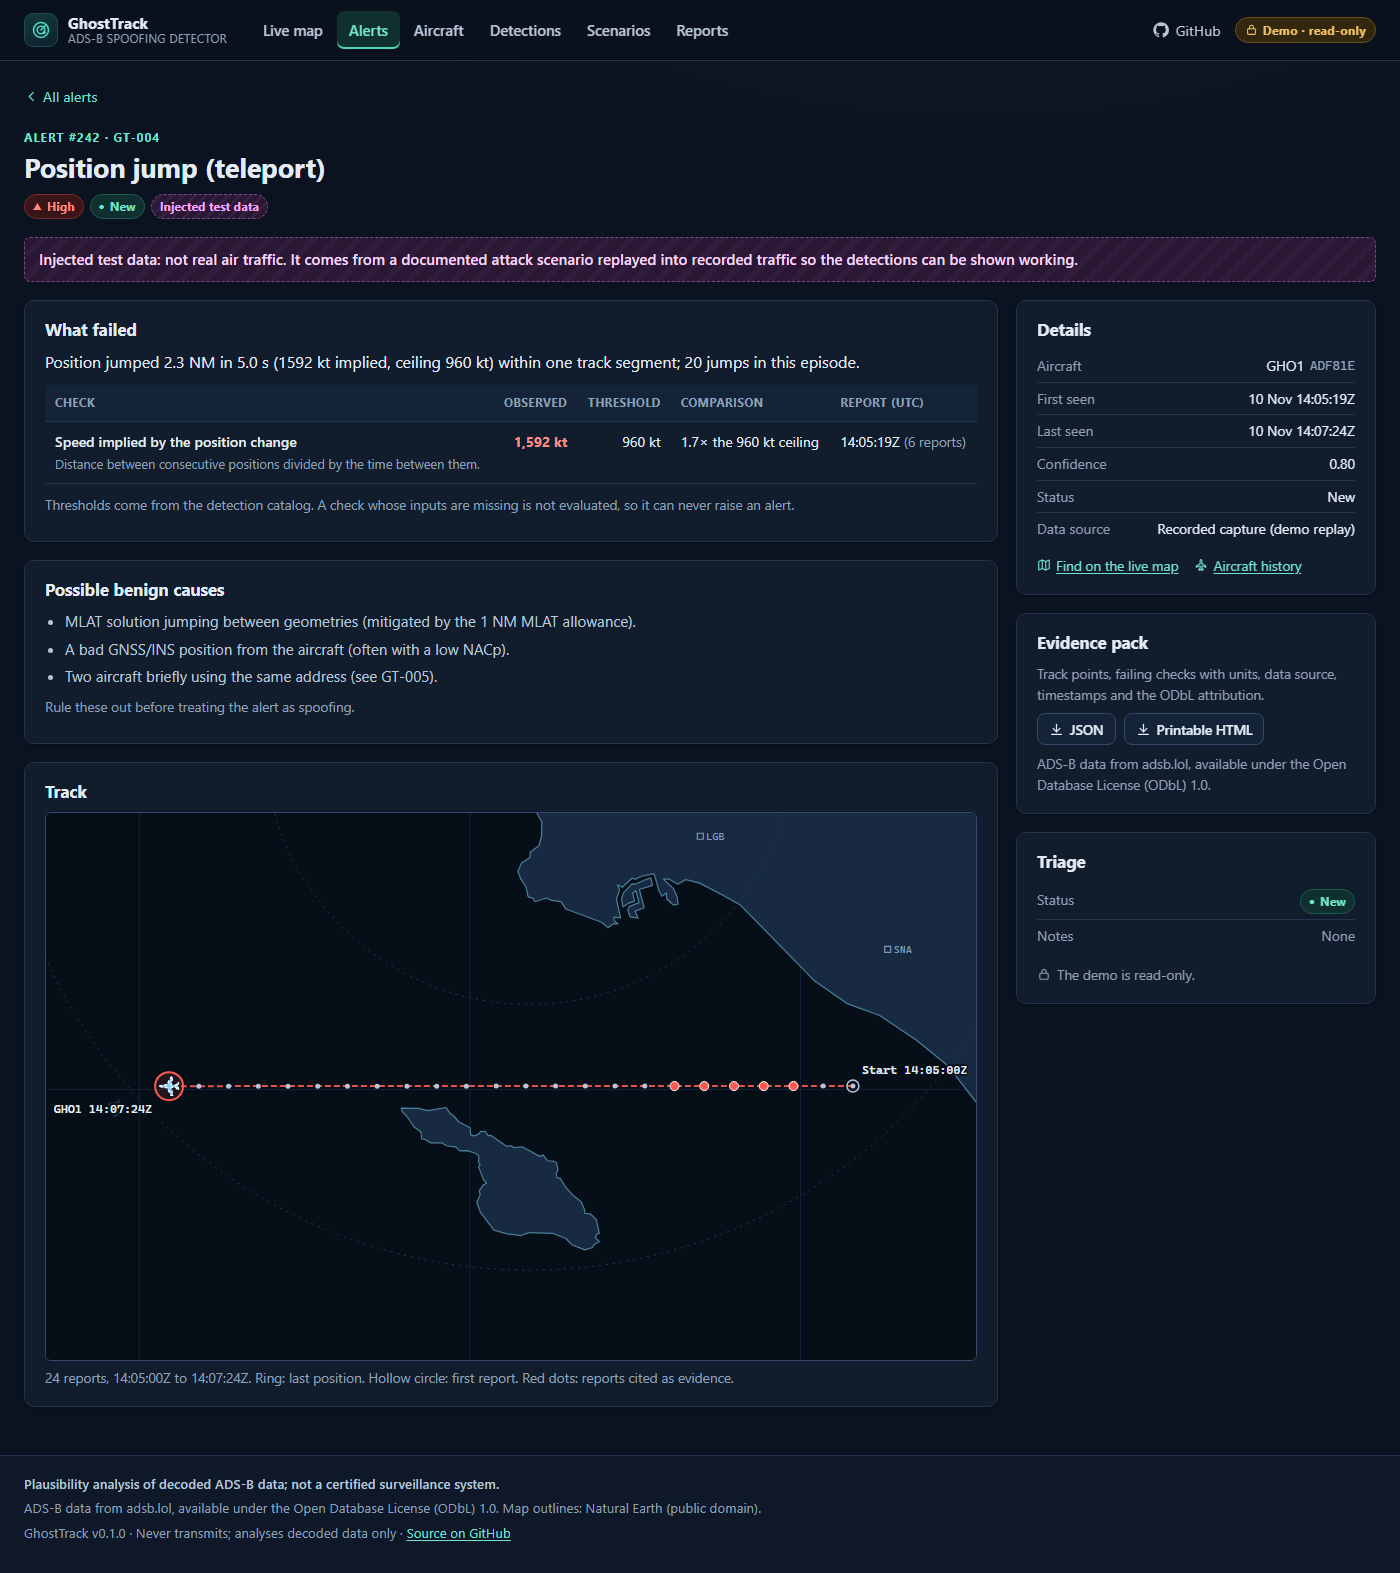
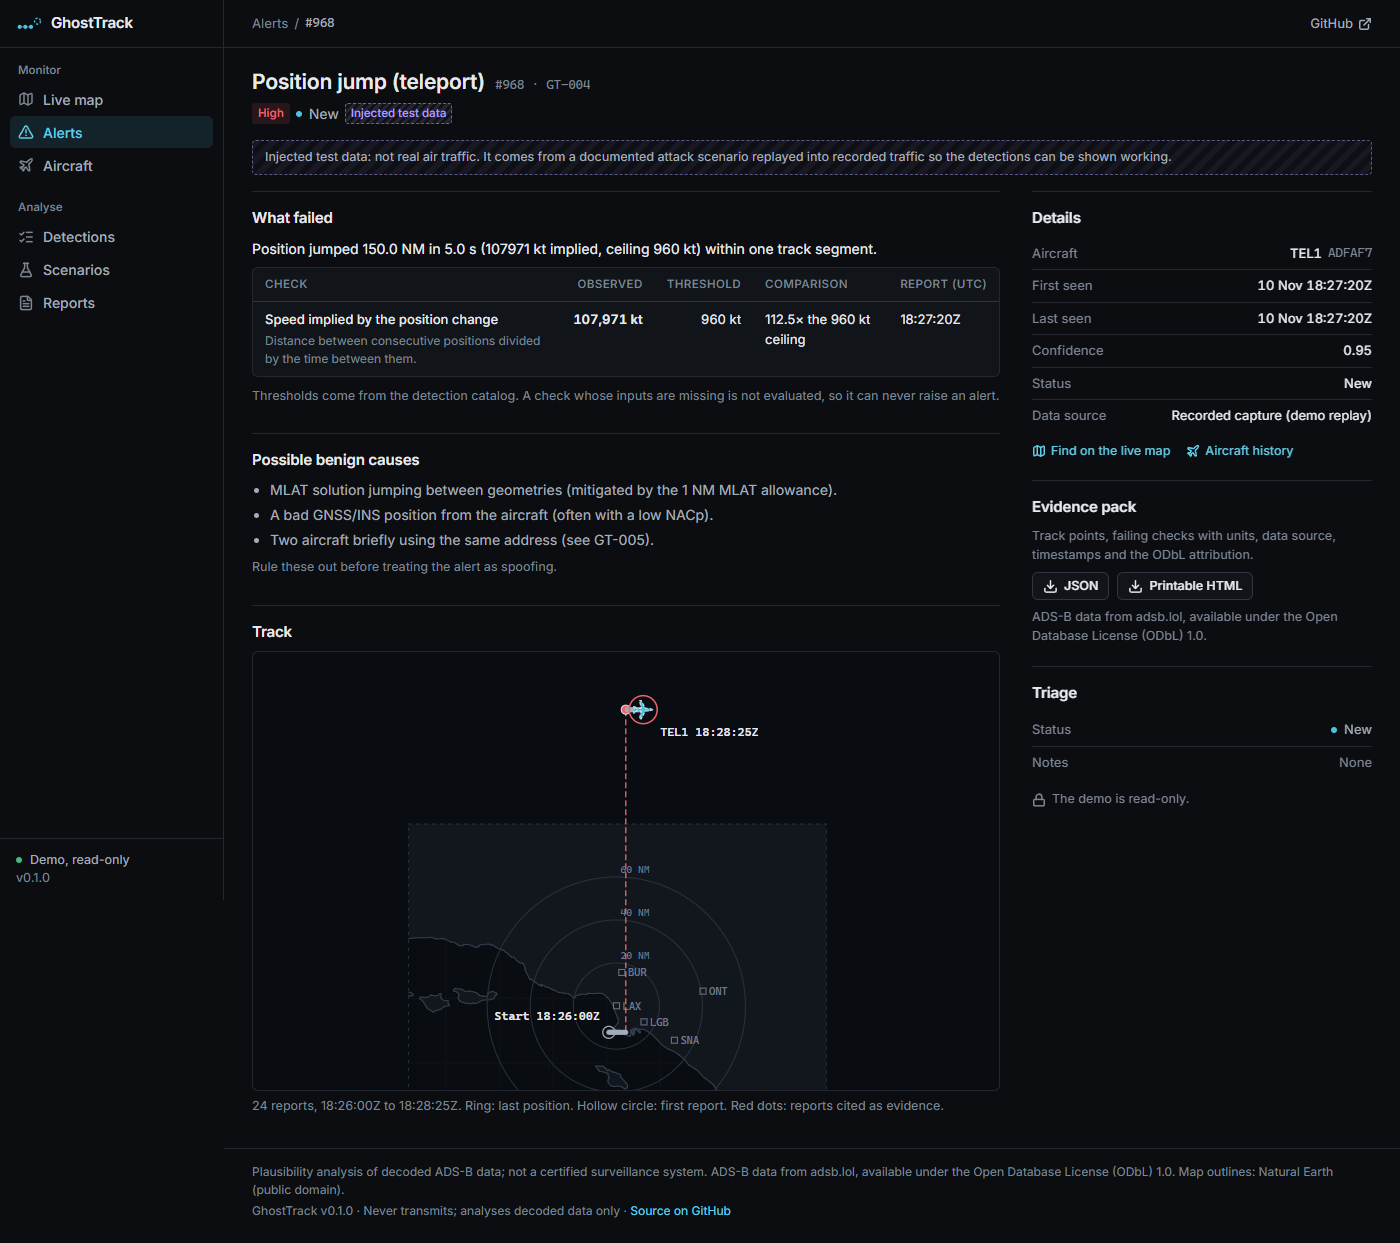
docs: retake screenshots for the new interface and update the README captions

diff --git a/README.md b/README.md
@@ -6,7 +6,7 @@
 
 **Live demo: <https://ghosttrack-demo.vercel.app/>**. The hosted demo is read-only for visitors and replays recorded traffic with injected test scenarios.
 
-![Live map: recorded traffic around LAX with the aircraft list and the next injected scenario](docs/screenshots/live-map.png)
+![Live map: recorded traffic around LAX with the aircraft list and a flagged injected aircraft](docs/screenshots/live-map.png)
 
 ## What GhostTrack does and doesn't do
 
@@ -195,7 +195,7 @@ flowchart LR
 
 - **SSRF prevention.** The only outbound host is `api.adsb.lol`, a constant in the code and never taken from input. The request path is built from numbers only (latitude, longitude and radius from an allow-listed region table), the opener refuses every redirect and ignores proxy environment variables, HTTPS is enforced, bodies over 5 MB are refused, and the timeout is 3 s. There is no route that fetches a user-supplied URL.
 - **Content Security Policy and headers.** `default-src 'self'; script-src 'self'; connect-src 'self'; frame-ancestors 'none'` and friends, on both the API and the static site. `X-Content-Type-Options: nosniff`, `X-Frame-Options: DENY`, strict referrer policy and `Cache-Control: no-store` (except the live route). Downloaded HTML is sandboxed with its own CSP. Because the CSP blocks CDN scripts, the Swagger UI and ReDoc pages are not served at all; the OpenAPI JSON is available to the admin at `/api/openapi.json`.
-- **No external tiles or fonts.** The map is hand-drawn SVG from a bundled Natural Earth outline, so no third party sees what you look at, and the CSP allows no other origin.
+- **No external tiles or fonts.** The map is hand-drawn SVG from a bundled Natural Earth outline and the typeface is bundled with the build, so no third party sees what you look at, and the CSP allows no other origin.
 - **Authentication.** PBKDF2-SHA256 (600,000 iterations) password hashing, a signed JWT with a pinned algorithm in an httpOnly, SameSite=Strict cookie that never appears in a response body, a per-IP login limiter, fail-closed when unconfigured. Guests exist only in demo mode and can never write.
 - **Untrusted input.** Every filter is allow-listed or validated, SQL is parameterized, request bodies are capped (64 KiB, or the upload cap for recordings), uploads are size- and decompression-limited and labelled "Uploaded recording (unverified)", and the upstream clock is not trusted.
 - **Supply chain.** CI runs `pip-audit`, `npm audit` (high) and gitleaks; Dependabot is enabled.
